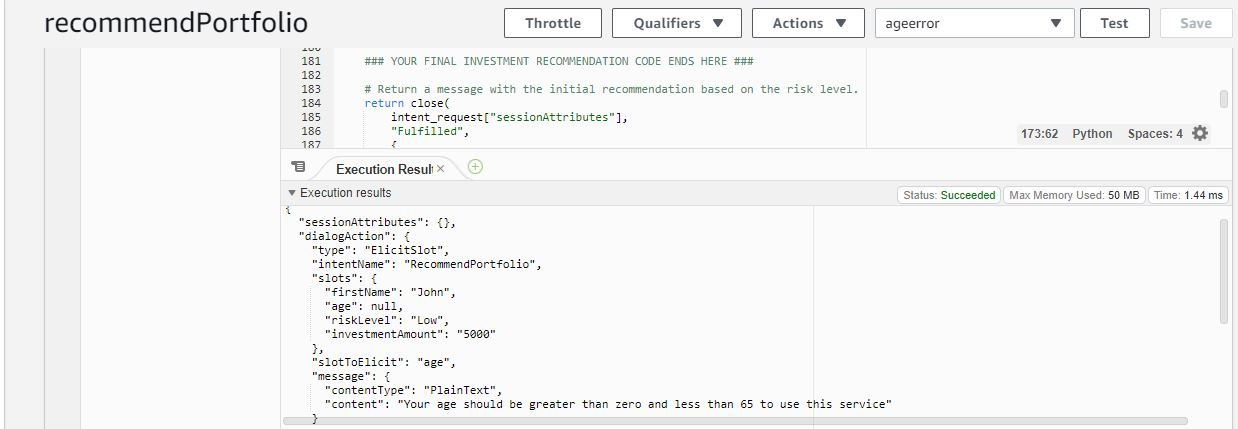
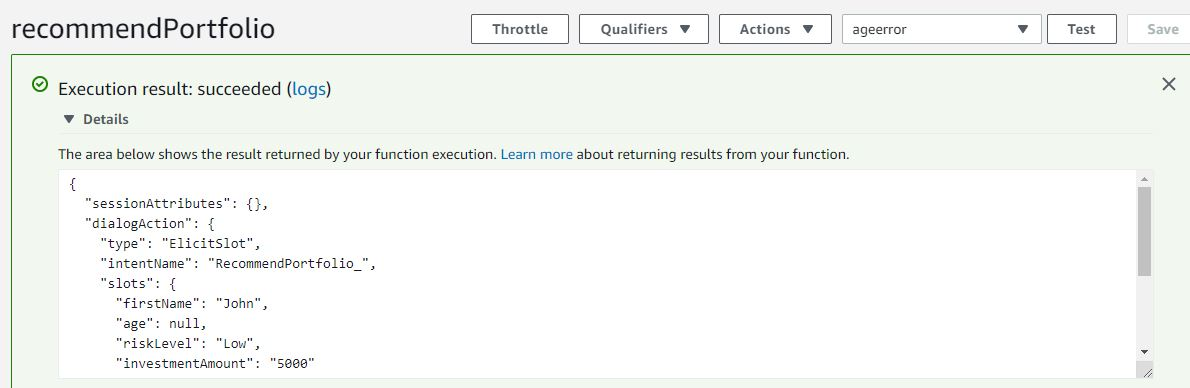
updated lambda function

diff --git a/Starter_Files/.ipynb_checkpoints/lambda_function-checkpoint.py b/Starter_Files/.ipynb_checkpoints/lambda_function-checkpoint.py
@@ -40,7 +40,7 @@ def validate_data(age, investment_amount, intent_request):
             return build_validation_result(
                 False,
                 "age",
-                "Your age should be greater than zero and less than 65 to use this service"
+                "The maximum age to contract this service is 64, can you provide an age between 0 and 64 please?"
             )
 
     # Validate the investment amount, it should be > 0
@@ -52,7 +52,7 @@ def validate_data(age, investment_amount, intent_request):
             return build_validation_result(
                 False,
                 "investmentAmount",
-                "The investment amount should be equals or greater than 5000 to use this service"
+                "The minimum investment amount is $5000 USD, could you please provide a greater amount"
             )
     # A True results is returned if age or amount are valid
     return build_validation_result(True, None, None)
@@ -164,8 +164,6 @@ def recommend_portfolio(intent_request):
                 validation_result["violatedSlot"],
                 validation_result["message"],
             )
-        
-        ### YOUR DATA VALIDATION CODE ENDS HERE ###
 
         # Fetch current session attibutes
         output_session_attributes = intent_request["sessionAttributes"]
@@ -174,11 +172,7 @@ def recommend_portfolio(intent_request):
 
     # Get the initial investment recommendation
     
-    #initial_recommendation = investment_recommendation(risk_level)
-    
-    ### YOUR FINAL INVESTMENT RECOMMENDATION CODE STARTS HERE ###
-
-    ### YOUR FINAL INVESTMENT RECOMMENDATION CODE ENDS HERE ###
+    initial_recommendation = investment_recommendation(risk_level)
 
     # Return a message with the initial recommendation based on the risk level.
     return close(
@@ -204,7 +198,7 @@ def dispatch(intent_request):
     intent_name = intent_request["currentIntent"]["name"]
 
     # Dispatch to bot's intent handlers
-    if intent_name == "RecommendPortfolio":
+    if intent_name == "RecommendPortfolio_":
         return recommend_portfolio(intent_request)
 
     raise Exception("Intent with name " + intent_name + " not supported")

diff --git a/Starter_Files/lambda_function.py b/Starter_Files/lambda_function.py
@@ -40,7 +40,7 @@ def validate_data(age, investment_amount, intent_request):
             return build_validation_result(
                 False,
                 "age",
-                "Your age should be greater than zero and less than 65 to use this service"
+                "The maximum age to contract this service is 64, can you provide an age between 0 and 64 please?"
             )
 
     # Validate the investment amount, it should be > 0
@@ -52,7 +52,7 @@ def validate_data(age, investment_amount, intent_request):
             return build_validation_result(
                 False,
                 "investmentAmount",
-                "The investment amount should be equals or greater than 5000 to use this service"
+                "The minimum investment amount is $5000 USD, could you please provide a greater amount"
             )
     # A True results is returned if age or amount are valid
     return build_validation_result(True, None, None)
@@ -164,8 +164,6 @@ def recommend_portfolio(intent_request):
                 validation_result["violatedSlot"],
                 validation_result["message"],
             )
-        
-        ### YOUR DATA VALIDATION CODE ENDS HERE ###
 
         # Fetch current session attibutes
         output_session_attributes = intent_request["sessionAttributes"]
@@ -174,11 +172,7 @@ def recommend_portfolio(intent_request):
 
     # Get the initial investment recommendation
     
-    #initial_recommendation = investment_recommendation(risk_level)
-    
-    ### YOUR FINAL INVESTMENT RECOMMENDATION CODE STARTS HERE ###
-
-    ### YOUR FINAL INVESTMENT RECOMMENDATION CODE ENDS HERE ###
+    initial_recommendation = investment_recommendation(risk_level)
 
     # Return a message with the initial recommendation based on the risk level.
     return close(
@@ -204,7 +198,7 @@ def dispatch(intent_request):
     intent_name = intent_request["currentIntent"]["name"]
 
     # Dispatch to bot's intent handlers
-    if intent_name == "RecommendPortfolio":
+    if intent_name == "RecommendPortfolio_":
         return recommend_portfolio(intent_request)
 
     raise Exception("Intent with name " + intent_name + " not supported")
